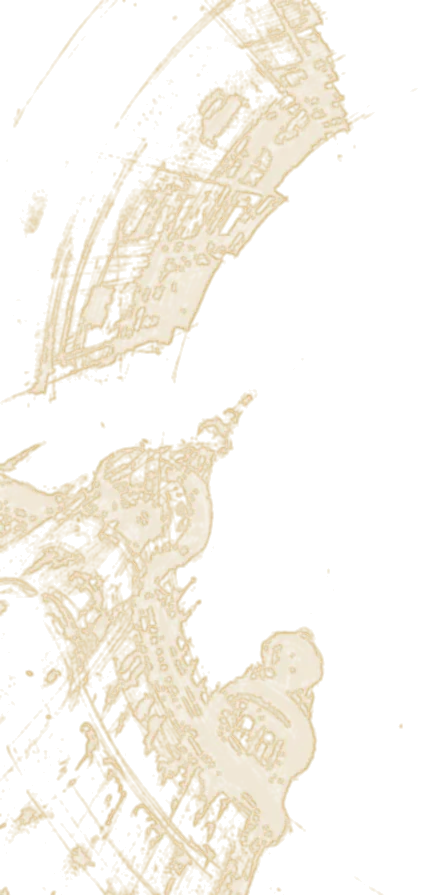
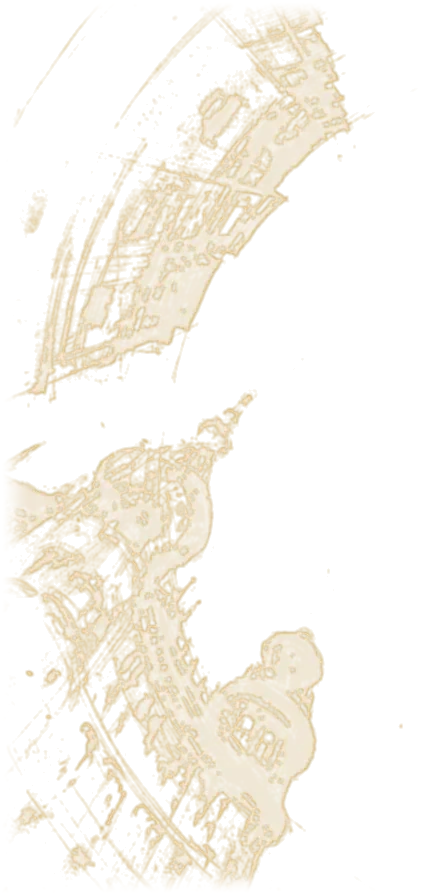
feat(plates): swap the right-side ornaments to the rider, alley and Kaaba
Replace the three right-edge ornament plates with engravings converted
from the supplied reference images, and enlarge the archer.

- hero right: the cloud spiral -> the ridge rider (a 1:2 plate, height-bound
  like the colonnade it faces)
- plates right: the vortex -> the stone alley
- contact right: the gold sun -> the Kaaba
- archer ("spartan"): ~40% taller (width clamp 138-186px -> 170-260px) and
  moved to the clean 559px master, whose sharper linework reads lighter, so
  --o lifts .16 -> .19
- repair the baroque plate's hard bottom edge (alpha 255 -> ~35) so the
  left-side ornament fades instead of reading as a box

The three new plates are produced by tools/gen-ornament-plates.py
(luminance+edge -> ink map, cream->gold colouring, border feather), so they
screen onto the navy in the same cream/gold language as the hand-drawn set.
Drop the six orphaned plates they replace.

diff --git a/public/landing-pages/chin-portfolio.html b/public/landing-pages/chin-portfolio.html
@@ -455,13 +455,18 @@
 
       /* ---- engraved ornament plates ----------------------------------------
          Everything here is redrawn from the supplied reference images — a
-         night colonnade, engraved clouds, a gold sun, halftone ruins, a
-         baroque dome, a marble statue, a cloud spiral, a gothic spire and an
+         night colonnade, a hill town watched by a rider, a Kaaba, a stone
+         alley, a baroque dome, a marble statue, a gothic spire and an
          archer — as
          cream/gold-on-transparency and screen-blended onto the navy ground,
          so they read as engraving rather than as photographs. Decorative and
          non-interactive; the alpha is carried in the file, so each just needs
          a size and an opacity.
+
+         The rider, Kaaba and alley plates are converted from supplied colour
+         images by tools/gen-ornament-plates.py (luminance+edge -> ink map,
+         cream->gold colouring, and a border feather that ramps alpha to 0 at
+         every edge so a plate can never paint a hard "box" onto the ground).
 
          Every plate states its opacity once as `--o`; the revealed state and
          the reduced-motion guard both read it, so a new plate is one rule.
@@ -490,19 +495,24 @@
         height:auto;
       }
       .orn-colonnade{--o:.19;left:0;bottom:0;height:min(92%,900px);width:auto}
-      .orn-clouds{--o:.16;right:0;top:0;height:min(88%,820px);width:auto}
-      .orn-sun{--o:.30;right:0;top:clamp(-30px,-2vw,0px);
-        width:clamp(190px,26vw,380px)}
+      /* hero right — the ridge rider, a tall 1:2 plate, so it is height-bound
+         like the colonnade it faces rather than width-bound. */
+      .orn-rider{--o:.20;right:0;top:0;height:min(88%,820px);width:auto}
+      /* contact right — the Kaaba plate. It carries real subject matter, not
+         just a motif, so it is sized as a picture and kept a shade lighter
+         than the old gold sun so the sky's cloud linework does not glare. */
+      .orn-kaaba{--o:.24;right:0;top:clamp(-30px,-2vw,0px);
+        width:clamp(210px,28vw,420px)}
       .orn-ruins{--o:.17;left:clamp(-20px,0vw,20px);bottom:0;
         width:clamp(220px,30vw,460px)}
 
       /* The plates lifted straight out of the reference sketches, scattered
          down the page so the decoration is not all piled into the hero. Each
          one is a real drawing from the supplied images — a baroque dome, a
-         statue, a spiral of cloud, a gothic spire — redrawn as cream/gold
-         line art on transparency and screened onto the navy. Sized large
-         (roughly 15–20vw, like the colonnade/ruins that were here first) so
-         they carry the section rather than sitting as small vignettes. */
+         statue, a stone alley, a gothic spire — redrawn as cream/gold line art
+         on transparency and screened onto the navy (tools/gen-ornament-plates.py).
+         Sized large (roughly 15–20vw, like the colonnade/ruins that were here
+         first) so they carry the section rather than sitting as small vignettes. */
       /* about — the upward-looking figure stands in the empty left margin,
          level with the biography, so the section reads as a spread; the
          archer answers it from the far right edge, clear of the bloom
@@ -511,18 +521,23 @@
          large on a desktop and never grows into the biography. */
       .orn-statue{--o:.20;left:clamp(-40px,-1.8vw,0px);top:clamp(10px,2vh,34px);
         width:clamp(148px,calc(45vw - 400px),252px)}
-      .orn-archer{--o:.16;right:0;bottom:0;
-        width:clamp(138px,12vw,186px)}
-      /* plates — the baroque dome and the cloud spiral flank the Index of
+      /* about — the archer (the "spartan" plate the user asked to keep and
+         enlarge): it now stands ~40% taller than before so the figure reads
+         as the section's counterweight to the statue. The source was also
+         swapped up to the 559px master, whose sharper linework reads a touch
+         lighter than the old 186px thumbnail, so --o carries a small lift. */
+      .orn-archer{--o:.19;right:0;bottom:0;
+        width:clamp(170px,17vw,260px)}
+      /* plates — the baroque dome and the stone alley flank the Index of
          Craft head, one per side, so the tag cloud floats between two plates.
          The section is full-bleed (its column is held in by padding), so
          `left:0`/`right:0` are the true viewport edges. */
       .orn-baroque{--o:.22;left:0;top:clamp(-6px,-.5vh,8px);
         width:clamp(198px,19vw,300px)}
-      .orn-vortex{--o:.18;right:0;top:clamp(14px,2.5vh,40px);
+      .orn-alley{--o:.18;right:0;top:clamp(14px,2.5vh,40px);
         width:clamp(224px,24vw,340px)}
-      /* contact — the gothic spire climbs the left edge, answering the gold
-         sun already in the top-right corner; both are full-bleed edge anchors
+      /* contact — the gothic spire climbs the left edge, answering the Kaaba
+         plate already in the top-right corner; both are full-bleed edge anchors
          for the same reason as the plates above. */
       .orn-cathedral{--o:.16;left:0;top:0;
         height:min(98%,676px);width:auto}
@@ -3797,12 +3812,10 @@
           loading="lazy"
         />
         <img
-          class="orn orn-clouds"
-          src="/chin-portfolio/engraved/sky-clouds-462.webp"
-          srcset="/chin-portfolio/engraved/sky-clouds-462.webp 462w, /chin-portfolio/engraved/sky-clouds-923.webp 923w"
-          sizes="462px"
-          width="923"
-          height="1641"
+          class="orn orn-rider"
+          src="/chin-portfolio/engraved/ridge-rider-600.webp"
+          width="600"
+          height="1200"
           alt=""
           aria-hidden="true"
           decoding="async"
@@ -3975,11 +3988,11 @@
         />
         <img
           class="orn orn-archer"
-          src="/chin-portfolio/engraved/archer-186.webp"
-          srcset="/chin-portfolio/engraved/archer-186.webp 186w, /chin-portfolio/engraved/archer-372.webp 372w"
-          sizes="min(186px, 12vw)"
-          width="372"
-          height="732"
+          src="/chin-portfolio/engraved/archer-372.webp"
+          srcset="/chin-portfolio/engraved/archer-372.webp 372w, /chin-portfolio/engraved/archer.webp 559w"
+          sizes="clamp(170px, 17vw, 260px)"
+          width="559"
+          height="1100"
           alt=""
           aria-hidden="true"
           decoding="async"
@@ -4072,8 +4085,10 @@
           loading="lazy"
         />
         <img
-          class="orn orn-vortex"
-          src="/chin-portfolio/engraved/vortex.webp"
+          class="orn orn-alley"
+          src="/chin-portfolio/engraved/stone-alley-640.webp"
+          width="640"
+          height="960"
           alt=""
           aria-hidden="true"
           decoding="async"
@@ -4141,8 +4156,10 @@
           loading="lazy"
         />
         <img
-          class="orn orn-sun"
-          src="/chin-portfolio/engraved/sun-gold.webp"
+          class="orn orn-kaaba"
+          src="/chin-portfolio/engraved/kaaba-560.webp"
+          width="560"
+          height="700"
           alt=""
           aria-hidden="true"
           decoding="async"

diff --git a/tools/gen-ornament-plates.py b/tools/gen-ornament-plates.py
@@ -1,0 +1,202 @@
+#!/usr/bin/env python3
+"""Turn a supplied photograph / painting into an engraved ornament plate.
+
+The portfolio's decorative plates (public/chin-portfolio/engraved/*.webp) are
+all cream/gold line art on transparency, screened onto the navy ground by
+`.orn { mix-blend-mode:screen }`. This script reproduces that treatment from a
+colour source so a new reference image can join the set:
+
+  * luminance -> ink map (dark areas become ink, light areas stay transparent)
+  * a gradient pass on top, so edges keep the drawn line quality
+  * cream->gold colouring keyed off ink strength (weak = cream, deep = gold)
+  * an alpha feather that ramps to 0 at every image border, so the plate can
+    never paint a hard rectangular "box" onto the ground
+
+Two modes:
+
+  convert  <src> <dst> [--width N] [--feather F] [--ink K] [--gamma G]
+           produce a new plate from a source image
+
+  feather  <path> [--feather F]
+           soften the borders of an EXISTING plate in place (used to repair
+           plates whose alpha reaches 255 at the image edge)
+
+Usage:
+  python tools/gen-ornament-plates.py convert shots/user/user-attach-2.png \
+      public/chin-portfolio/engraved/stone-alley.webp --width 760
+  python tools/gen-ornament-plates.py feather \
+      public/chin-portfolio/engraved/baroque.webp --feather 0.07
+"""
+from __future__ import annotations
+
+import argparse
+import sys
+from pathlib import Path
+
+import numpy as np
+from PIL import Image, ImageFilter
+
+# The palette the existing plates are built from (see the --ink / --earth
+# tokens in chin-portfolio.html).
+CREAM = np.array([239.0, 231.0, 214.0])
+GOLD = np.array([198.0, 160.0, 83.0])
+
+
+def _smoothstep(t: np.ndarray) -> np.ndarray:
+    t = np.clip(t, 0.0, 1.0)
+    return t * t * (3.0 - 2.0 * t)
+
+
+def feather_mask(w: int, h: int, frac: float) -> np.ndarray:
+    """1.0 across the interior, easing to 0.0 at every border.
+
+    `frac` is the ramp depth as a fraction of the shorter side. This is the
+    whole reason a converted plate can never show a hard edge: alpha is
+    multiplied by a value that is provably 0 on the outermost pixel row/column.
+    """
+    yy, xx = np.mgrid[0:h, 0:w]
+    dist = np.minimum.reduce(
+        [xx, (w - 1) - xx, yy, (h - 1) - yy]
+    ).astype(np.float32)
+    ramp = max(1.0, min(w, h) * frac)
+    return _smoothstep(dist / ramp)
+
+
+def ink_map(rgb: np.ndarray, edge_div: float) -> np.ndarray:
+    """Darkness + edge energy, normalised to 0..1.
+
+    The weights below are tuned against the plates already in the repo: they
+    land a converted photograph in the same band as the hand-drawn set
+    (roughly 35-55% of the plate inked, median alpha ~90-130), so it reads as
+    etching rather than as a photograph dropped into a gold rectangle.
+    """
+    lum = (
+        0.2126 * rgb[:, :, 0] + 0.7152 * rgb[:, :, 1] + 0.0722 * rgb[:, :, 2]
+    ).astype(np.float32)
+
+    # Slight blur before the edge pass so film grain does not read as linework.
+    blurred = Image.fromarray(lum.astype(np.uint8), "L").filter(
+        ImageFilter.GaussianBlur(1.1)
+    )
+    smooth = np.asarray(blurred, dtype=np.float32)
+
+    # Darkness: the flat tone that becomes broad ink washes (shadows, stone).
+    tone = 1.0 - smooth / 255.0
+
+    # Edge energy: what keeps windows, foliage and stone joints legible.
+    edges = np.asarray(
+        blurred.filter(ImageFilter.FIND_EDGES), dtype=np.float32
+    )
+    edges = np.clip(edges / edge_div, 0.0, 1.0)
+
+    return np.clip(0.50 * tone + 0.80 * edges, 0.0, 1.0)
+
+
+def colorize(ink: np.ndarray) -> np.ndarray:
+    """Deep ink -> gold, faint ink -> cream, so the plate has a two-tone draw."""
+    t = _smoothstep((ink - 0.12) / 0.78)[..., None]
+    return CREAM * (1.0 - t) + GOLD * t
+
+
+def convert(
+    src: Path,
+    dst: Path,
+    width: int = 760,
+    feather: float = 0.07,
+    ink_gain: float = 1.0,
+    gamma: float = 1.0,
+    floor: float = 0.30,
+    edge_div: float = 38.0,
+    quality: int = 82,
+) -> None:
+    img = Image.open(src).convert("RGB")
+    if img.width != width:
+        height = max(1, round(img.height * width / img.width))
+        img = img.resize((width, height), Image.LANCZOS)
+    rgb = np.asarray(img, dtype=np.float32)
+    h, w = rgb.shape[:2]
+
+    ink = ink_map(rgb, edge_div)
+    # Lift the midtones, then push the very faint end to true transparency so
+    # the plate reads as line art instead of a grey rectangle.
+    ink = np.clip(ink * ink_gain, 0.0, 1.0) ** gamma
+    alpha = _smoothstep((ink - floor) / (1.0 - floor)) * 255.0
+    alpha *= feather_mask(w, h, feather)
+
+    colour = colorize(ink)
+    out = np.dstack([colour, alpha]).astype(np.uint8)
+    dst.parent.mkdir(parents=True, exist_ok=True)
+    Image.fromarray(out, "RGBA").save(
+        dst, "WEBP", quality=quality, method=6, alpha_quality=92
+    )
+    print(f"convert  {src.name:32s} -> {dst.name:26s} {w}x{h}  "
+          f"ink={ink.mean():.3f}  border_alpha={_border_alpha(alpha):.0f}")
+
+
+def repair(path: Path, feather: float = 0.07) -> None:
+    """Multiply an existing plate's alpha by a border feather, in place."""
+    img = Image.open(path).convert("RGBA")
+    arr = np.asarray(img, dtype=np.float32)
+    h, w = arr.shape[:2]
+    before = _border_alpha(arr[:, :, 3])
+    arr[:, :, 3] *= feather_mask(w, h, feather)
+    after = _border_alpha(arr[:, :, 3])
+    Image.fromarray(arr.astype(np.uint8), "RGBA").save(
+        path, "WEBP", quality=88, method=6, alpha_quality=100
+    )
+    print(f"feather  {path.name:26s} {w}x{h}  "
+          f"border_alpha {before:.0f} -> {after:.0f}")
+
+
+def _border_alpha(alpha: np.ndarray) -> float:
+    """Peak alpha in the outermost 8px band — 0 means a clean fade."""
+    b = 8
+    return float(
+        max(
+            alpha[:b, :].max(),
+            alpha[-b:, :].max(),
+            alpha[:, :b].max(),
+            alpha[:, -b:].max(),
+        )
+    )
+
+
+def main(argv: list[str]) -> int:
+    parser = argparse.ArgumentParser(description=__doc__)
+    sub = parser.add_subparsers(dest="mode", required=True)
+
+    c = sub.add_parser("convert", help="source image -> engraved plate")
+    c.add_argument("src", type=Path)
+    c.add_argument("dst", type=Path)
+    c.add_argument("--width", type=int, default=760)
+    c.add_argument("--feather", type=float, default=0.07)
+    c.add_argument("--ink", dest="ink_gain", type=float, default=1.0)
+    c.add_argument("--gamma", type=float, default=1.0)
+    c.add_argument("--floor", type=float, default=0.30)
+    c.add_argument("--edge-div", dest="edge_div", type=float, default=38.0)
+    c.add_argument("--quality", type=int, default=82)
+
+    f = sub.add_parser("feather", help="soften an existing plate's borders")
+    f.add_argument("path", type=Path)
+    f.add_argument("--feather", type=float, default=0.07)
+
+    args = parser.parse_args(argv)
+    if args.mode == "convert":
+        convert(
+            args.src,
+            args.dst,
+            width=args.width,
+            feather=args.feather,
+            ink_gain=args.ink_gain,
+            gamma=args.gamma,
+            floor=args.floor,
+            edge_div=args.edge_div,
+            quality=args.quality,
+        )
+    else:
+        repair(args.path, feather=args.feather)
+    return 0
+
+
+if __name__ == "__main__":
+    raise SystemExit(main(sys.argv[1:]))
